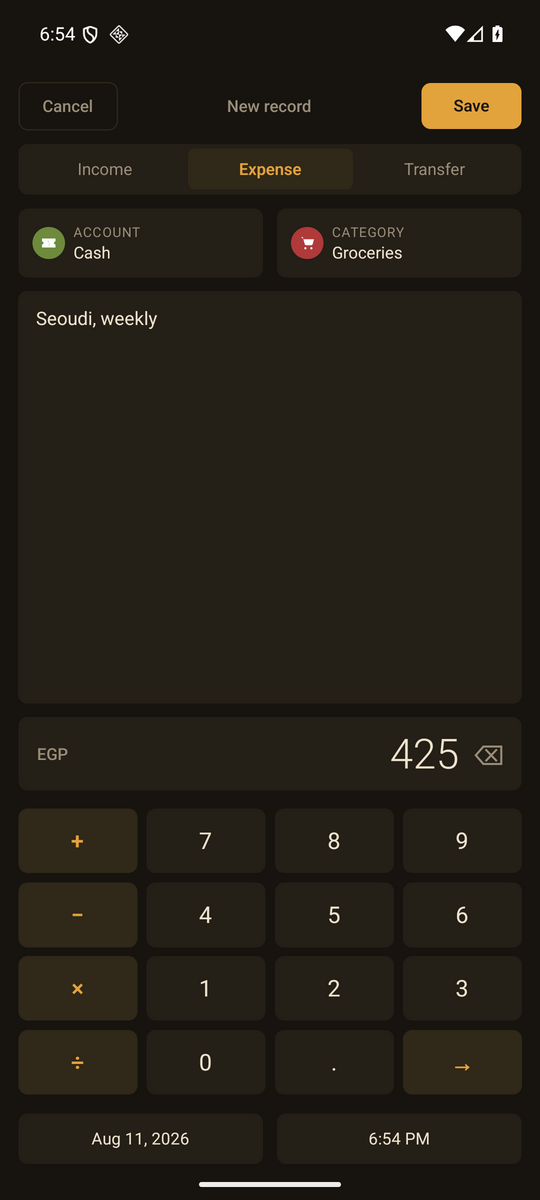
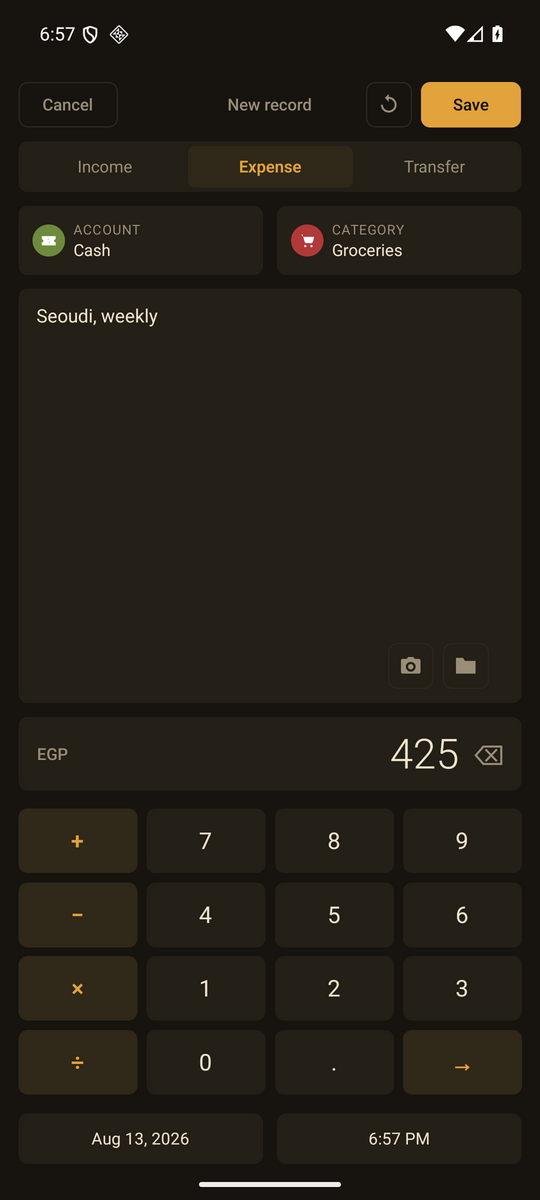
docs: regenerate the README screenshots
Generated by `npm run shots`, not taken by hand, so they cannot drift.
They now show the two things that changed since they were last made: the
day total beside each date, reconciling with Now in the header, and the
camera and folder in the corner of the note field.

diff --git a/README.md b/README.md
@@ -44,8 +44,8 @@ a second set of parsing rules to keep honest.
 <td width="33%"><img src="docs/screenshots/budgets.png" alt="The budgets screen showing four categories with progress bars, one of them over budget in red"></td>
 </tr>
 <tr>
-<td><b>Records</b><br>The month is the organising unit. Transfers appear once, not twice, so the totals mean what they say.</td>
-<td><b>One-handed entry</b><br>Pickers at the top, keypad at the bottom, and the bottom-right key walks the whole form — account, category, save.</td>
+<td><b>Records</b><br>The month is the organising unit. Transfers appear once, not twice, so the totals mean what they say — and each day's heading nets that day, which reconciles with <i>Now</i> above it.</td>
+<td><b>One-handed entry</b><br>Pickers at the top, keypad at the bottom, and the bottom-right key walks the whole form — account, category, save. The camera and folder in the note's corner attach a receipt.</td>
 <td><b>Budgets</b><br>A limit per category, suggested from what you actually spend. Spending under <i>Coffee</i> counts against <i>Food</i>.</td>
 </tr>
 <tr>
